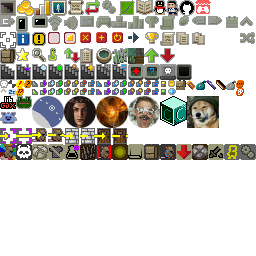
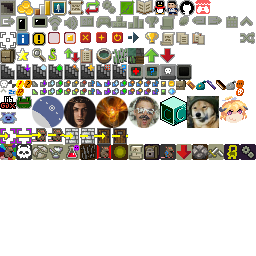
3.1.2:更改标题界面、关于界面，精英强敌文本；重命名武僧视野方法；加强鼠化术

diff --git a/core/src/main/java/com/shatteredpixel/shatteredpixeldungeon/scenes/AboutScene.java b/core/src/main/java/com/shatteredpixel/shatteredpixeldungeon/scenes/AboutScene.java
@@ -84,11 +84,21 @@ public class AboutScene extends PixelScene {
         null);
         odg.setSize(colWidth/2f, 0);
         if (landscape()){
-            odg.setPos(xun.right() + colWidth/4f, xun.top() + (xun.height() - odg.height())/2f);
+            odg.setPos(xun.right(), xun.top() + (xun.height() - odg.height())/2f);
         } else {
-            odg.setPos(xun.left() + colWidth/4f, xun.bottom()+5);
+            odg.setPos(w/2f - colWidth/2f, xun.bottom()+5);
         }
         content.add(odg);
+
+		CreditsBlock oxynoe = new CreditsBlock(false, Window.XUN_COLOR,
+				"Explorer Splash Art:",
+				Icons.OXYNOE.get(),
+				"江豚",
+				null,
+				null);
+		oxynoe.setSize(colWidth/2f, 0);
+		oxynoe.setRect(odg.right(), odg.top(), colWidth/2f, 0);
+		content.add(oxynoe);
 
 		//*** Shattered Pixel Dungeon Credits ***
 
@@ -148,11 +158,7 @@ public class AboutScene extends PixelScene {
 				"Developed by: _Watabou_\nInspired by Brian Walker's Brogue",
 				"watabou.itch.io",
 				"https://watabou.itch.io/");
-		if (landscape()){
-			wata.setRect(shpx.left(), kristjan.bottom() + 8, colWidth, 0);
-		} else {
-			wata.setRect(shpx.left(), kristjan.bottom() + 8, colWidth, 0);
-		}
+		wata.setRect(shpx.left(), kristjan.bottom() + 8, colWidth, 0);
 		content.add(wata);
 
 		addLine(wata.top() - 4, content);
@@ -256,8 +262,9 @@ public class AboutScene extends PixelScene {
 				"_Pack: Stabbing Stomachs & Crushing Skulls_ by _TheFilmLook_\n" +
 				"_Sheep bleating_ by _zachrau_\n" +
 				"_Lemon,Juicy,Squeeze,Fruit.wav_ by _Filipe Chagas_\n" +
-				"_Lemon,Squeeze,Squishy,Fruit.wav_ by _Filipe Chagas_",
-				"freesound.org",
+				"_Lemon,Squeeze,Squishy,Fruit.wav_ by _Filipe Chagas_\n" +
+                "_Hammer on Wood.wav_ by _L.i.Z.e.L.l.E-+_",
+				"www.freesound.org",
 				"https://www.freesound.org");
 		freesound.setRect(transifex.left()-10, transifex.bottom() + 8, colWidth+20, 0);
 		content.add(freesound);

diff --git a/core/src/main/java/com/shatteredpixel/shatteredpixeldungeon/scenes/TitleScene.java b/core/src/main/java/com/shatteredpixel/shatteredpixeldungeon/scenes/TitleScene.java
@@ -63,7 +63,6 @@ public class TitleScene extends PixelScene {
 	private Image title;
 	private Fireball leftFB;
 	private Fireball rightFB;
-	private Image signs;
 
 	private StyledButton btnPlay;
 	private StyledButton btnSupport;
@@ -121,15 +120,17 @@ public class TitleScene extends PixelScene {
 			rightFB = placeTorch(title.x + title.width - 16, title.y + 70);
 		}
 
-		signs = new Image(BannerSprites.get( landscape() ? BannerSprites.Type.TITLE_GLOW_LAND : BannerSprites.Type.TITLE_GLOW_PORT)){
+		Image signs = new Image(BannerSprites.get(landscape() ? BannerSprites.Type.TITLE_GLOW_LAND : BannerSprites.Type.TITLE_GLOW_PORT)) {
 			private float time = 0;
+
 			@Override
 			public void update() {
 				super.update();
-				am = Math.max(0f, (float)Math.sin( time += Game.elapsed ));
+				am = Math.max(0f, (float) Math.sin(time += Game.elapsed));
 				am = Math.min(am, title.am);
-				if (time >= 1.5f*Math.PI) time = 0;
+				if (time >= 1.5f * Math.PI) time = 0;
 			}
+
 			@Override
 			public void draw() {
 				Blending.setLightMode();
@@ -139,7 +140,7 @@ public class TitleScene extends PixelScene {
 		};
 		signs.x = title.x + (title.width() - signs.width())/2f;
 		signs.y = title.y;
-		add( signs );
+		add(signs);
 
 		final Chrome.Type GREY_TR = Chrome.Type.GREY_BUTTON_TR;
 		
@@ -260,7 +261,7 @@ public class TitleScene extends PixelScene {
 		};
 		btnFade.icon().originToCenter();
 		btnFade.icon().angle = 180f;
-		btnFade.setRect(btnAreaLeft + (buttonAreaWidth-16)/2, camera.main.height - 16 - insets.bottom, 16, 16);
+		btnFade.setRect(btnAreaLeft + (buttonAreaWidth-16)/2, Camera.main.height - 16 - insets.bottom, 16, 16);
 		add(btnFade);
 
 		PointerArea fadeResetter = new PointerArea(0, 0, Camera.main.width, Camera.main.height){

diff --git a/core/src/main/java/com/shatteredpixel/shatteredpixeldungeon/Dungeon.java b/core/src/main/java/com/shatteredpixel/shatteredpixeldungeon/Dungeon.java
@@ -54,6 +54,7 @@ import com.shatteredpixel.shatteredpixeldungeon.items.Item;
 import com.shatteredpixel.shatteredpixeldungeon.items.artifacts.TalismanOfForesight;
 import com.shatteredpixel.shatteredpixeldungeon.items.potions.Potion;
 import com.shatteredpixel.shatteredpixeldungeon.items.rings.Ring;
+import com.shatteredpixel.shatteredpixeldungeon.items.rings.RingOfVision;
 import com.shatteredpixel.shatteredpixeldungeon.items.scrolls.Scroll;
 import com.shatteredpixel.shatteredpixeldungeon.items.wands.WandOfRegrowth;
 import com.shatteredpixel.shatteredpixeldungeon.items.wands.WandOfWarding;
@@ -903,9 +904,11 @@ public class Dungeon {
 		int dist = Math.max(Dungeon.hero.viewDistance, 8);
 		if (Dungeon.hero.hasTalent(Talent.FARSIGHT)) dist += 1 + Dungeon.hero.pointsInTalent(Talent.FARSIGHT);
 
-		dist += Talent.MonkViewBoost();
+		dist += Talent.monkViewBoost();
 
 		if (Dungeon.hero.heroClass == HeroClass.EXPLORER) dist ++;
+
+		dist += RingOfVision.visionBonus();
 
 		if (Dungeon.hero.buff(MagicalSight.class) != null){
 			dist = Math.max( dist, MagicalSight.DISTANCE );

diff --git a/core/src/main/java/com/shatteredpixel/shatteredpixeldungeon/ui/Icons.java b/core/src/main/java/com/shatteredpixel/shatteredpixeldungeon/ui/Icons.java
@@ -148,6 +148,7 @@ public enum Icons {
 	PURIGRO,
 	ARCNOR,
     ODG,
+	OXYNOE,
 
 	//icons that used in gold arrow ballistica
 	STOP_TARGET,
@@ -495,6 +496,10 @@ public enum Icons {
                 icon.frame( icon.texture.uvRectBySize( 187, 96, 32, 32 ) );
                 icon.scale.set(PixelScene.align(0.49f));
                 break;
+			case OXYNOE:
+				icon.frame( icon.texture.uvRectBySize( 219, 96, 29, 27 ) );
+				icon.scale.set(PixelScene.align(0.49f));
+				break;
 
 			case STOP_TARGET:
 				icon.frame( icon.texture.uvRectBySize( 0, 128, 16, 16 ) );

diff --git a/core/src/main/java/com/shatteredpixel/shatteredpixeldungeon/levels/Level.java b/core/src/main/java/com/shatteredpixel/shatteredpixeldungeon/levels/Level.java
@@ -1407,7 +1407,7 @@ public abstract class Level implements Bundlable {
 			float viewDist = c.viewDistance;
 			if (c instanceof Hero){
 				if (Dungeon.hero.hasTalent(Talent.FARSIGHT)) viewDist += 1 + Dungeon.hero.pointsInTalent(Talent.FARSIGHT);
-				viewDist += Talent.MonkViewBoost();
+				viewDist += Talent.monkViewBoost();
 				viewDist *= EyeOfNewt.visionRangeMultiplier();
 				if (Dungeon.hero.heroClass == HeroClass.EXPLORER) viewDist ++;
 

diff --git a/core/src/main/java/com/shatteredpixel/shatteredpixeldungeon/actors/hero/Talent.java b/core/src/main/java/com/shatteredpixel/shatteredpixeldungeon/actors/hero/Talent.java
@@ -726,7 +726,7 @@ public enum Talent {
 		}
 	}
 
-	public static int MonkViewBoost(){
+	public static int monkViewBoost(){
 		MonkEnergy Energy = Dungeon.hero.buff(MonkEnergy.class);
 		if (Energy != null && Dungeon.hero.hasTalent(YANG_SEEING)) {
 			return Math.min((Energy.Getenergy() / (5 - Dungeon.hero.pointsInTalent(YANG_SEEING))),

diff --git a/core/src/main/java/com/shatteredpixel/shatteredpixeldungeon/actors/hero/abilities/Ratmogrify.java b/core/src/main/java/com/shatteredpixel/shatteredpixeldungeon/actors/hero/abilities/Ratmogrify.java
@@ -59,7 +59,7 @@ import java.util.HashSet;
 public class Ratmogrify extends ArmorAbility {
 
 	{
-		baseChargeUse = 50f;
+		baseChargeUse = 40;
 	}
 
 	//this is sort of hacky, but we need it to know when to use alternate name/icon for heroic energy
